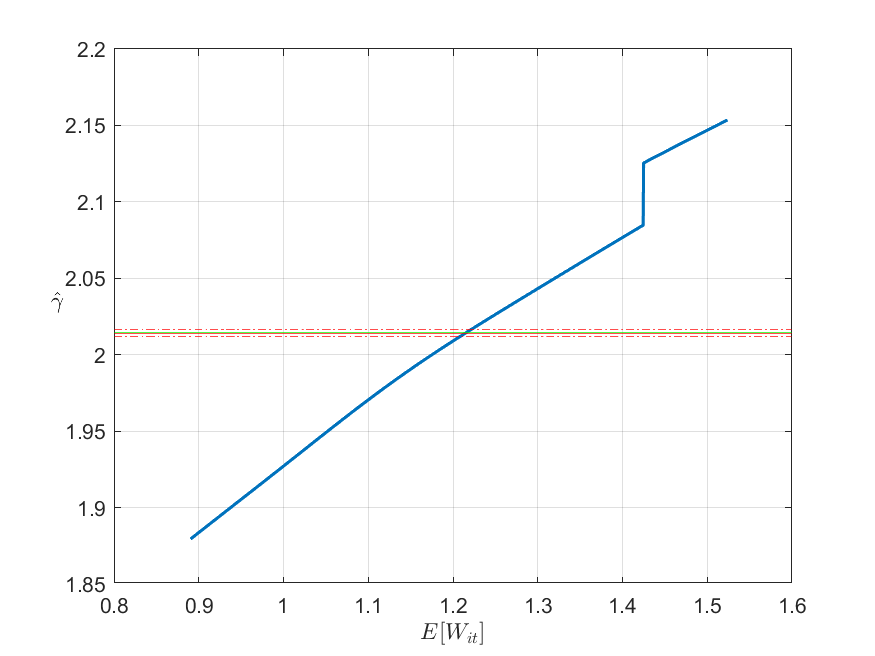
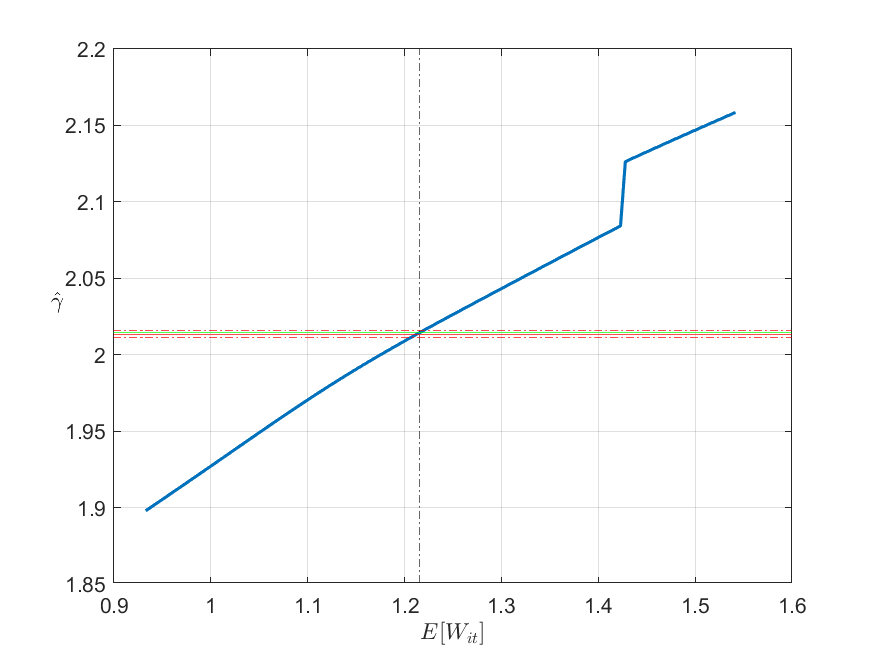
update the project

diff --git a/Part II - Structural Estimation/Project/projectcodesdata/Robustness.m b/Part II - Structural Estimation/Project/projectcodesdata/Robustness.m
@@ -3,6 +3,7 @@ clear
 close all
 clc
 useGPU = 0;
+rng(13571122)
 %%
 nSimul = 100000;
 %%% Estimated Values
@@ -54,6 +55,7 @@ mean(estimated_values), std(estimated_values),var(estimated_values)
 sorted_params = estimated_values(sort_idx, :);
 
 labels = ["$\hat{\beta}$" "$\hat{\gamma}$" "$\hat{\phi}$"];
+labels_2 = ["$\tilde{\beta}$" "$\tilde{\gamma}$" "$\tilde{\phi}$"];
 titles = ["$\beta$" "$\gamma$" "$\phi$"];
 names = ["beta" "gamma" "phi"];
 
@@ -67,17 +69,33 @@ for i = 1:3
     mean_value = mean(estimated_values(:,i));
     conf_term_2 = 1.96 * (var(estimated_values(:,i)) / length(estimated_values))^0.5;
     yline(mean_value,'r')
+    xline(moment.targetm(4),'-.')
     yline(mean_value + conf_term_2 ,'-.r')
     yline(mean_value - conf_term_2 ,'-.r')
     grid on;
     fig_name = 'robustness_check_parameter' + names(i) + '.png' ;
     saveas(gcf, fig_name);
+
+    figure(i*5)
+    plot((sorted_moments - mean(sorted_moments) ) / std(sorted_moments) ...
+        ,(sorted_params(:, i) - mean(sorted_params(:, i)) ) / std(sorted_params(:, i)), '-', 'LineWidth', 1.5);
+    xlabel('$\tilde{E[W_{it}]}$','Interpreter','latex');
+    ylabel(labels_2(i),'Interpreter','latex','Rotation',1)
+%     title('Robustness Check for ' + titles(i),'Interpreter','latex');
+    yline(0,'-.')
+    xline(0,'-.')
+    grid on;
+    fig_name = 'robustness_check_parameter_normalize_' + names(i) + '.png' ;
+    saveas(gcf, fig_name);
+
 end
+%% 
+
 
 
 
 %% Add new moments
-close all
+
 moment.targetm = targetm;
 moment.tMoments = tMoments;
 
@@ -117,6 +135,7 @@ end
 
 
 %%
+close all
 X = ["Base line" "E[\pi_{it}]" "\sigma[W_{it}]" "\sigma[W_{iT}]"];
 x=categorical(X(2:4));
 Y_agg = [Y.beta; Y.gamma ;Y.phi];
